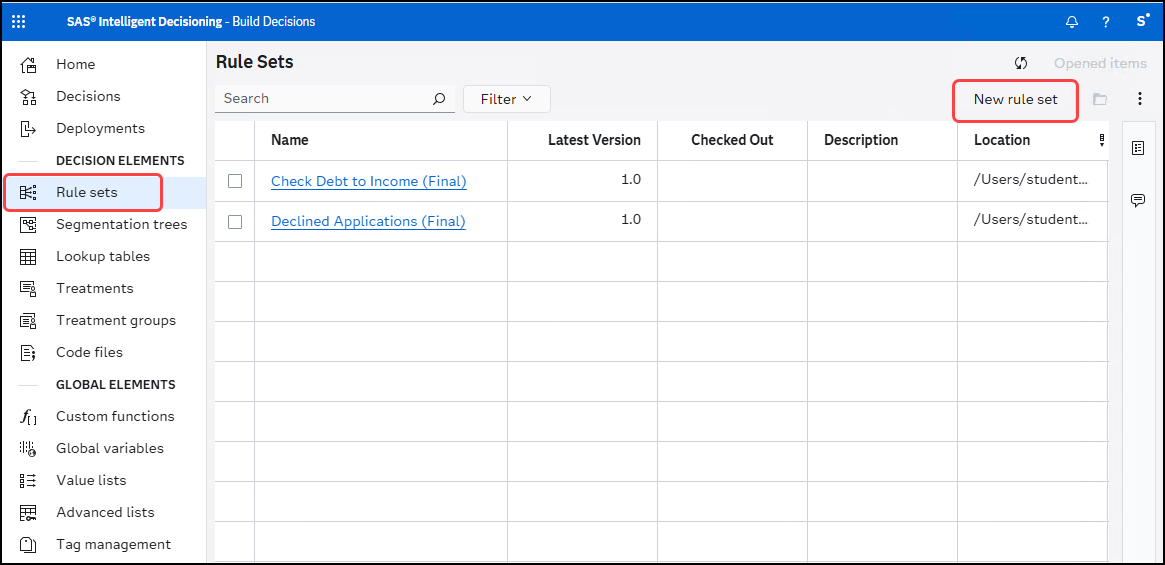
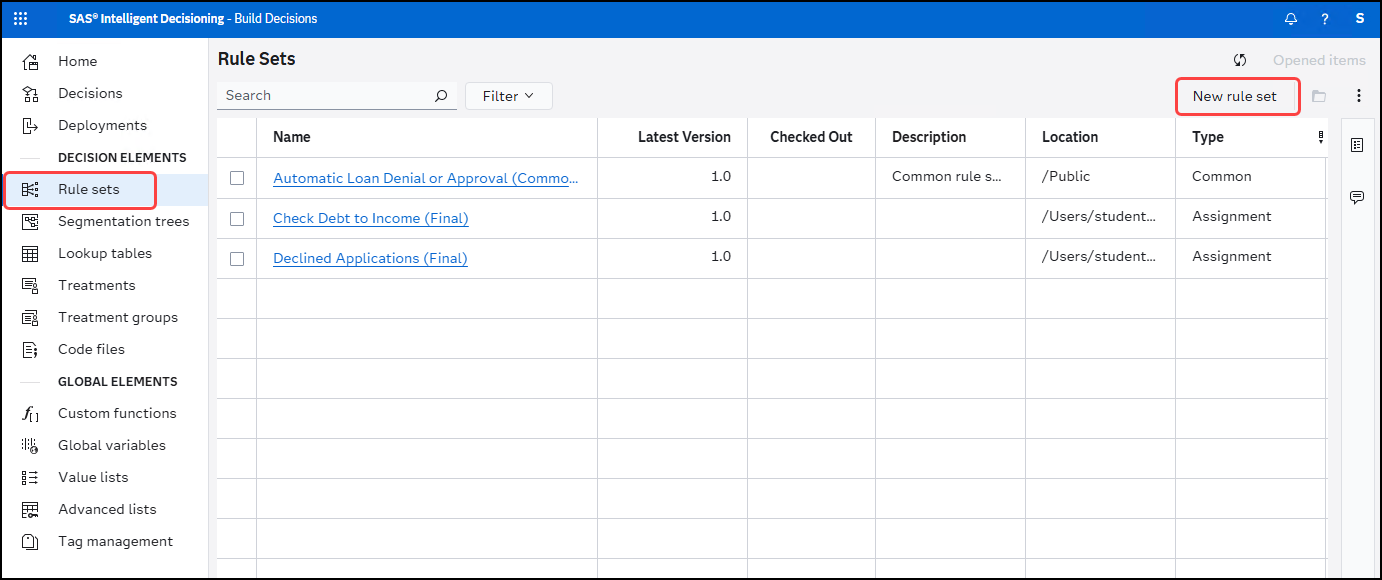
updated Rule Set

diff --git a/Getting_Started_with_SAS_Intelligent_Decisioning.md b/Getting_Started_with_SAS_Intelligent_Decisioning.md
@@ -47,8 +47,10 @@ Select **No** when prompted about accepting *Admin* privileges.
 1. Enter the following information for the new rule set:
     * Name: **Initial_Loan_Review**
     * Type: **Assignment**
-    * Description: **Initial Loan Review Assignment Rule**
+    * Description: **Initial Loan Review Rule Set**
     * Location: **/Public**
+
+      > &#9998; Select ![Folder icon](images/FolderIcon.png) and navigate to **SAS Content &#10132; Public**.
 
         ![Initial_Loan_Review settings](images/Initial_Loan_ReviewSettings.png)
 
@@ -73,14 +75,23 @@ Select **No** when prompted about accepting *Admin* privileges.
 
     > &#9998; The variables are automatically added as both *Input* and *Output* variables. You can uncheck those selections as appropriate for your rule set.
 
-1. To import some custom output variables, select *xxx &#10132; xxx**.
+1. To import some custom output variables, select **Import &#10132; Comma-delimited(*.csv)**.
 
-***import custom variables from CSV
+   ![Import Variables from CSV](images/ImportVariablesCSV.png)
 
+1. Select ![Folder icon](images/FolderIcon.png) in the **Name** selection.
+1. Navigate to **workshop (\\\server.demo.sas.com) (W:)\SID**.
+1. Select **CustomVariables.csv** and click **Open**.
+
+   ![Select Import Variables CSV File](images/SelectImportVarFile.png)
+
+1. Click **Import** to import the variables from the selected CSV file.
+
+   ![Import Variables from File ](images/ImportVarsFromFile.png)
 
 1. Click ![Save button](images/SaveButton.png) to save the rule set.
 
-    ![Updated variables](images/UpdatedVariables.png)
+   ![Updated variables](images/UpdatedVariables.png)![](images/UpdatedVariables.png)
 
 1. Select the **Rule set** tab.
 1. Click **Add other**.
@@ -91,12 +102,23 @@ Select **No** when prompted about accepting *Admin* privileges.
 1. For the action assignment, select **ASSIGN STATUS 'REVIEW'**.
 1. Click ![Save button](images/SaveButton.png) to save the rule set.
 
-***pic
+   ![Assign Status Review](images/AssignmentReview.png)
 
-***add common rule set
+1. Select **Add &#10132; Reference common rule set** to add a common rule set that has already been created.
 
+   ![Add reference common rule set](images/ReferenceCommonRuleSet.png)
 
-   ![Initial loan review - automatic approval](images/InitialLoanReview4.png)
+1. On the *Select Common Rule Sets* tab, check the common rule set **Automatic Loan Denial or Approval (Common)** and click **Next**.
+
+   ![Select Common Rule Sets](images/SelectCommonRuleSets.png)
+
+1. On the *Select Common Rule Set Versions* tab, click **Next**.
+1. On the *Map Inputs* tab, the inputs are auto-mapped since the same input variable names exist in both rule sets.  Click **Next**.
+1. On the *Map Outputs* tab, the inputs are auto-mapped since the same output variable names exist in both rule sets.  Click **Next**.
+1. On the *Order Rules* tab, click **Finish** to add the selected common rule set(s) to the current rule set.
+1. Expand the **Automatic Loan Denial or Approval (Common) (Latest Version)** rule to view its logic.
+
+   ![Initial loan review - automatic approval](images/InitialLoanReview4.png)![](images/InitialLoanReview4.png)
 
 1. Click ![Save button](images/SaveButton.png) to save the rule set.
 1. To test the rule set, select the **Scoring** tab.
